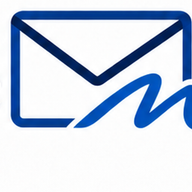
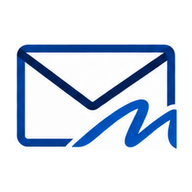
Fix clipped envelope mark: generous crop + trim + deliberate padding
public/brand/mark.png sliced the envelope/signature-stroke glyph off at its
right edge because the crop used a fixed guessed square instead of the
artwork's real bounds. Replace it with a generous extract that is trimmed to
the actual ink and then padded onto a square canvas so no ink can touch an
edge, and add a border-pixel check to check-brand.ts so this can't regress
silently again.

diff --git a/scripts/check-brand.ts b/scripts/check-brand.ts
@@ -19,6 +19,33 @@ const EXPECTED: Array<{ file: string; width: number; height?: number }> = [
 
 const failures: string[] = [];
 
+/**
+ * A crop can pass the geometry check above (right pixel dimensions) while
+ * still slicing the artwork off at an edge — that is exactly the bug this
+ * guards against (see task-2 fix round 1). Ink touching any of the four
+ * border rows/columns means the crop is too tight and the glyph is clipped.
+ */
+async function findClippedEdges(file: string): Promise<string[]> {
+  const { data, info } = await sharp(file)
+    .ensureAlpha()
+    .raw()
+    .toBuffer({ resolveWithObject: true });
+  const { width, height, channels } = info;
+  const isInk = (x: number, y: number) => {
+    const idx = (y * width + x) * channels;
+    const [r, g, b, a] = [data[idx], data[idx + 1], data[idx + 2], data[idx + 3]];
+    const opaque = a > 250;
+    const nearWhite = r > 250 && g > 250 && b > 250;
+    return opaque && !nearWhite;
+  };
+  const edges: string[] = [];
+  if ([...Array(width).keys()].some((x) => isInk(x, 0))) edges.push("top");
+  if ([...Array(width).keys()].some((x) => isInk(x, height - 1))) edges.push("bottom");
+  if ([...Array(height).keys()].some((y) => isInk(0, y))) edges.push("left");
+  if ([...Array(height).keys()].some((y) => isInk(width - 1, y))) edges.push("right");
+  return edges;
+}
+
 // This repo's package.json has no "type": "module", so tsx transpiles .ts
 // scripts as CommonJS and top-level await is unavailable (every other
 // scripts/check-*.ts avoids it for the same reason). An async main() wrapper
@@ -35,6 +62,15 @@ async function main() {
       failures.push(`${file}: height ${meta.height}, expected ${height}`);
     }
     if (statSync(file).size > 400 * 1024) failures.push(`${file}: over 400KB`);
+  }
+
+  if (existsSync("public/brand/mark.png")) {
+    const clipped = await findClippedEdges("public/brand/mark.png");
+    if (clipped.length) {
+      failures.push(
+        `public/brand/mark.png: artwork touches the ${clipped.join(", ")} edge(s) — glyph is clipped`,
+      );
+    }
   }
 
   if (failures.length) {
